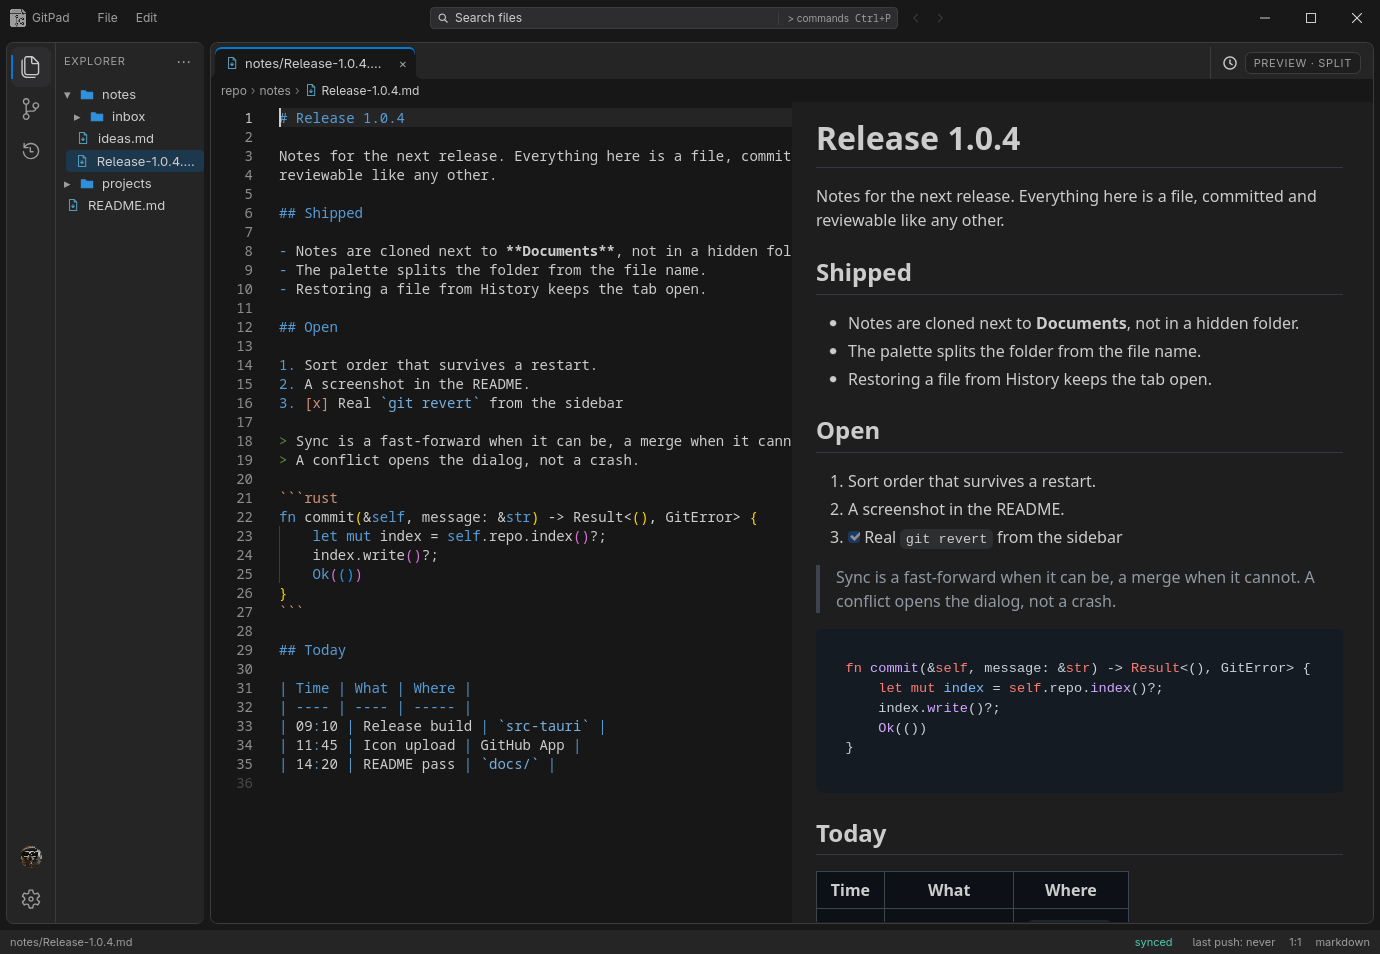
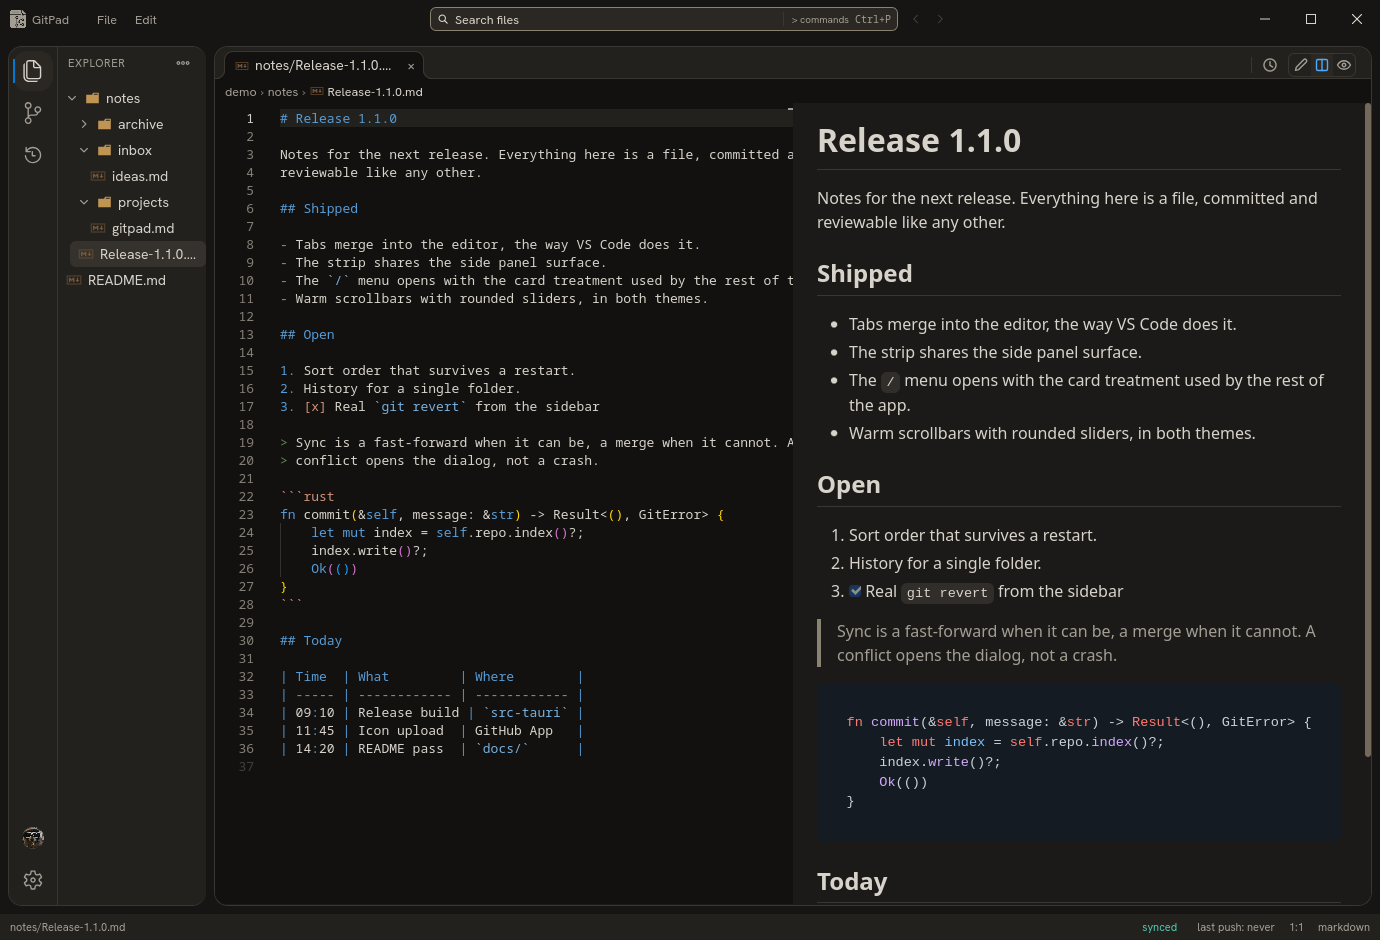
docs: refresh the screenshot for 1.1.0

diff --git a/README.md b/README.md
@@ -23,7 +23,7 @@ GitPad is a local-first desktop editor for Markdown notes and small text files t
 
 Built with **Tauri 2**, **Rust**, **Svelte 5**, and **Monaco**. Linux first.
 
-> **Status:** `v1.0.6`. GitPad writes to a real Git repository, so keep backups and use a dedicated notes repository.
+> **Status:** `v1.1.0`. GitPad writes to a real Git repository, so keep backups and use a dedicated notes repository.
 
 ---
 
